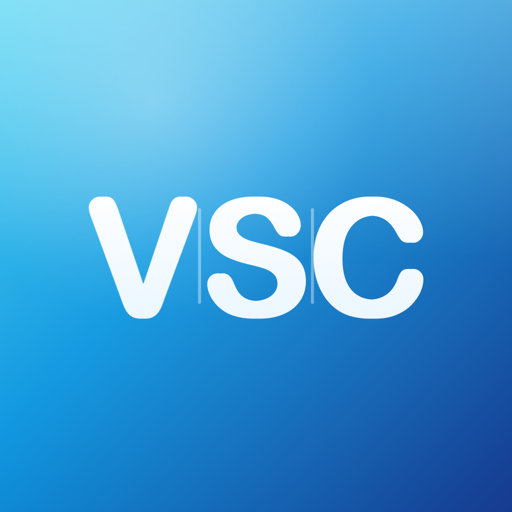
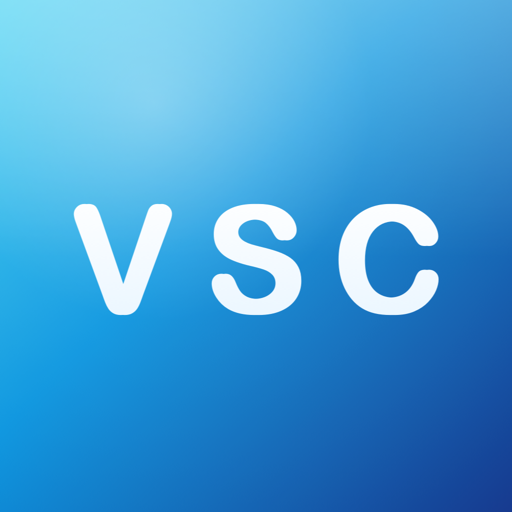
/vsc: п.1-8 — иконка (без палок, шире), краткое расхождение выкупов, плитка заморож. не растянута + текст в i, месячный эквайринг (столбцы, доли по обороту с %), доля рынка текст в i, возвраты наверх, жёлтый блок по разрезам

Changed region(s): [[0.125, 0.375, 0.875, 0.625]]

diff --git a/public/admin.html b/public/admin.html
@@ -2664,15 +2664,14 @@
       function vscMarketChart(rows) {
         const wrap = document.createElement("div"); wrap.className = "vsc-chart";
         const h = document.createElement("div"); h.className = "vsc-chart-h"; h.textContent = "Рынок визовых услуг (модель) и наша доля — по месяцам";
-        h.appendChild(vscInfo("<b>Как считается</b><br>Рынок — модельная оценка (июль 2026): РФ 4,5 млрд ₽/год, МСК 2,1, СПб 0,6; помесячно — с сезонностью визовых подач. Месяц появляется после его календарного окончания. Наша доля = выручка месяца / модельный рынок (по городам — выручка филиалов из amoCRM). Наведите на столбец — полная разбивка."));
+        h.appendChild(vscInfo("<b>Как читать</b><br>Высота столбца — весь рынок РФ (млн ₽); число сверху — наша доля рынка РФ; числа в сегментах МСК/СПб — наша доля этих рынков.<br><br><b>Как считается</b><br>Рынок — модельная оценка (июль 2026): РФ 4,5 млрд ₽/год, МСК 2,1, СПб 0,6; помесячно — с сезонностью визовых подач. Месяц появляется после его календарного окончания. Наша доля = выручка месяца / модельный рынок (по городам — выручка филиалов из amoCRM)."));
         wrap.appendChild(h);
         if (!rows.length) { const e = document.createElement("div"); e.className = "vsc-empty"; e.textContent = "Нет закрытых месяцев для расчёта."; wrap.appendChild(e); return wrap; }
         const COL_MSK = "#e8843b", COL_SPB = "#2e7d52", COL_REST = "#a9c7e4", COL_SHARE = "#8e44ad";
         const leg = document.createElement("div");
         leg.style.cssText = "display:flex;gap:14px;flex-wrap:wrap;font-size:11px;color:#5a626f;margin:2px 0 8px;";
         const legItem = (color, txt) => '<span style="white-space:nowrap;"><i style="display:inline-block;width:10px;height:10px;border-radius:3px;background:' + color + ';vertical-align:-1px;margin-right:5px;"></i>' + txt + '</span>';
-        leg.innerHTML = legItem(COL_REST, "Остальная РФ") + legItem(COL_MSK, "Рынок МСК") + legItem(COL_SPB, "Рынок СПб")
-          + '<span style="flex-basis:100%;color:#8e44ad;font-weight:600;">Высота столбца — весь рынок РФ (млн ₽); число сверху — наша доля рынка РФ; числа в сегментах МСК/СПб — наша доля этих рынков</span>';
+        leg.innerHTML = legItem(COL_REST, "Остальная РФ") + legItem(COL_MSK, "Рынок МСК") + legItem(COL_SPB, "Рынок СПб");
         wrap.appendChild(leg);
         const money1 = (v) => (Math.round(v * 10) / 10).toLocaleString("ru-RU");
         const fmtS = (v) => (Math.round(v * 100) / 100).toLocaleString("ru-RU") + "%";
@@ -2733,87 +2732,70 @@
       // Компактный график комиссий эквайринга (только админ): 4 линии %-комиссии по дням
       // за 30 дней — ООО торговый/интернет, ИП торговый/интернет. Наведение/палец → тултип
       // со значениями всех линий за день. data = { ooo:{ "ГГГГ-ММ-ДД":{torgT,torgC,inetG,inetC} }, ip:{…} }.
+      // МЕСЯЧНЫЕ столбцы комиссий эквайринга (как «доля рынка»): высота = ОБЩИЙ усреднённый
+      // % комиссии за месяц; 4 сегмента по весу ОБОРОТА; число в сегменте — конкретный %
+      // ЭТОГО эквайринга; число сверху — общий %. data.ooo/.ip = { months:{ "YYYY-MM":{...} } }.
       function vscAcqChart(data) {
         const wrap = document.createElement("div"); wrap.className = "vsc-chart";
-        const SERIES = [
+        const TYPES = [
           { key: "oooTorg", name: "ООО торговый", color: "#3589BD", src: "ooo", kind: "torg" },
           { key: "oooInet", name: "ООО интернет", color: "#8e44ad", src: "ooo", kind: "inet" },
           { key: "ipTorg", name: "ИП торговый", color: "#e8843b", src: "ip", kind: "torg" },
           { key: "ipInet", name: "ИП интернет", color: "#2e7d52", src: "ip", kind: "inet" }
         ];
-        const pctOf = (rec, kind) => { if (!rec) return null; if (kind === "torg") return rec.torgT > 0 ? rec.torgC / rec.torgT * 100 : null; return rec.inetG > 0 ? rec.inetC / rec.inetG * 100 : null; };
-        // последние 30 календарных дней (по бизнес-дате «от ДД.ММ»)
-        const days = [];
-        const today = new Date(); today.setHours(0, 0, 0, 0);
-        for (let i = 29; i >= 0; i--) { const d = new Date(today.getTime() - i * 86400000); const k = d.getFullYear() + "-" + ("0" + (d.getMonth() + 1)).slice(-2) + "-" + ("0" + d.getDate()).slice(-2); days.push({ k: k, x: ("0" + d.getDate()).slice(-2) + "." + ("0" + (d.getMonth() + 1)).slice(-2) }); }
-        const avail = SERIES.filter((s) => data && data[s.src]); // ИП без токена — линий нет
-        // значения по дням
-        const vals = {}; avail.forEach((s) => { vals[s.key] = days.map((d) => pctOf(data[s.src][d.k], s.kind)); });
-        const all = []; avail.forEach((s) => vals[s.key].forEach((v) => { if (v != null) all.push(v); }));
-        // 30-дневный агрегат (Σкомис/Σоборот) — в легенду
-        const agg = {}; avail.forEach((s) => { let c = 0, b = 0; days.forEach((d) => { const r = data[s.src][d.k]; if (r) { if (s.kind === "torg") { c += r.torgC || 0; b += r.torgT || 0; } else { c += r.inetC || 0; b += r.inetG || 0; } } }); agg[s.key] = b > 0 ? c / b * 100 : null; });
-        // легенда с агрегатом
-        const leg = document.createElement("div");
-        leg.style.cssText = "display:flex;gap:14px;flex-wrap:wrap;font-size:11px;color:#5a626f;margin:0 0 8px;";
-        leg.innerHTML = avail.map((s) => '<span style="white-space:nowrap;"><i style="display:inline-block;width:10px;height:10px;border-radius:3px;background:' + s.color + ';vertical-align:-1px;margin-right:5px;"></i>' + s.name + (agg[s.key] != null ? ' · <b>' + (Math.round(agg[s.key] * 100) / 100).toLocaleString("ru-RU") + '%</b> за 30 дн.' : '') + '</span>').join("");
-        wrap.appendChild(leg);
-        if (!all.length) { const e = document.createElement("div"); e.className = "vsc-empty"; e.textContent = "Нет данных по эквайрингу за 30 дней."; wrap.appendChild(e); return wrap; }
-        const VW = 1000, VH = 150, PT = 10, PB = 134, PL = 8, PR = 8;
-        let vMax = Math.max.apply(null, all) * 1.1, vMin = Math.min.apply(null, all) * 0.9;
-        if (vMax === vMin) { vMax += 1; vMin = Math.max(0, vMin - 1); }
-        const X = (i) => PL + i * (VW - PL - PR) / (days.length - 1);
-        const Y = (v) => PT + (1 - (v - vMin) / (vMax - vMin)) * (PB - PT);
-        const box = document.createElement("div"); box.style.cssText = "position:relative;height:" + VH + "px;touch-action:pan-y;";
-        const gl = (y) => '<line x1="0" x2="' + VW + '" y1="' + y + '" y2="' + y + '" stroke="#e9edf3" stroke-width="1" vector-effect="non-scaling-stroke"/>';
-        let svg = gl(PT) + gl((PT + PB) / 2) + gl(PB);
-        avail.forEach((s) => {
-          let d = "", pen = false;
-          vals[s.key].forEach((v, i) => { if (v == null) { pen = false; return; } d += (pen ? " L" : " M") + X(i).toFixed(1) + " " + Y(v).toFixed(1); pen = true; });
-          if (d) svg += '<path d="' + d.trim() + '" fill="none" stroke="' + s.color + '" stroke-width="2" stroke-linejoin="round" stroke-linecap="round" vector-effect="non-scaling-stroke"/>';
-        });
-        const yl = (top, txt) => '<div style="position:absolute;left:6px;top:' + top + 'px;font-size:9.5px;color:#9aa0ab;background:rgba(255,255,255,.75);padding:0 3px;border-radius:4px;">' + txt + '</div>';
+        const avail = TYPES.filter((t) => data && data[t.src] && data[t.src].months);
+        const baseOf = (t, ym) => { const r = data[t.src].months[ym]; if (!r) return 0; return t.kind === "torg" ? (r.torgT || 0) : (r.inetG || 0); };
+        const commOf = (t, ym) => { const r = data[t.src].months[ym]; if (!r) return 0; return t.kind === "torg" ? (r.torgC || 0) : (r.inetC || 0); };
+        const set = {}; avail.forEach((t) => Object.keys(data[t.src].months).forEach((ym) => { if (ym >= "2026-01") set[ym] = 1; }));
+        const yms = Object.keys(set).sort();
+        const MONTHS_RU = ["Янв", "Фев", "Мар", "Апр", "Май", "Июн", "Июл", "Авг", "Сен", "Окт", "Ноя", "Дек"];
         const fmtP = (v) => (Math.round(v * 100) / 100).toLocaleString("ru-RU") + "%";
-        box.innerHTML = '<svg width="100%" height="' + VH + '" viewBox="0 0 ' + VW + ' ' + VH + '" preserveAspectRatio="none" style="display:block;">' + svg + '</svg>'
-          + yl(2, fmtP(vMax)) + yl((PT + PB) / 2 - 7, fmtP((vMax + vMin) / 2)) + yl(PB - 6, fmtP(vMin))
-          + '<div class="vsc-line-marker" style="position:absolute;width:8px;height:8px;border-radius:50%;background:#fff;border:2px solid #3589BD;display:none;transform:translate(-50%,-50%);pointer-events:none;"></div>'
-          + '<div class="vsc-line-tip" style="position:absolute;display:none;background:#1d2433;color:#fff;font-size:11px;line-height:1.5;padding:7px 10px;border-radius:8px;white-space:nowrap;pointer-events:none;z-index:5;box-shadow:0 4px 14px rgba(20,30,50,.25);"></div>';
-        wrap.appendChild(box);
-        const xAxis = document.createElement("div");
-        xAxis.style.cssText = "display:flex;justify-content:space-between;font-size:9.5px;color:#9aa0ab;margin-top:3px;";
-        const nLbl = 6, idxs = []; for (let j = 0; j < nLbl; j++) idxs.push(Math.round(j * (days.length - 1) / (nLbl - 1)));
-        xAxis.innerHTML = Array.from(new Set(idxs)).map((i) => '<span>' + days[i].x + '</span>').join("");
-        wrap.appendChild(xAxis);
-        const marker = box.querySelector(".vsc-line-marker"), tip = box.querySelector(".vsc-line-tip");
-        const showAt = (clientX) => {
-          const r = box.getBoundingClientRect(); if (!r.width) return;
-          const relVx = (clientX - r.left) / r.width * VW;
-          let best = 0, bd = Infinity;
-          for (let i = 0; i < days.length; i++) { const dd = Math.abs(X(i) - relVx); if (dd < bd) { bd = dd; best = i; } }
-          const px = X(best) / VW * r.width;
-          marker.style.display = "block"; marker.style.left = px + "px"; marker.style.top = PT + "px";
-          let html = '<span style="color:#aab3c5;">' + days[best].x + '</span>';
-          avail.forEach((s) => { const v = vals[s.key][best]; html += '<br><i style="display:inline-block;width:8px;height:8px;border-radius:2px;background:' + s.color + ';margin-right:5px;"></i>' + s.name + ': <b>' + (v != null ? fmtP(v) : "—") + '</b>'; });
-          tip.innerHTML = html; tip.style.display = "block";
-          const tw = tip.offsetWidth;
-          tip.style.left = Math.max(2, Math.min(r.width - tw - 2, px - tw / 2)) + "px";
-          tip.style.top = "2px";
-        };
-        const hide = () => { marker.style.display = "none"; tip.style.display = "none"; };
-        box.addEventListener("mousemove", (e) => showAt(e.clientX));
-        box.addEventListener("mouseleave", hide);
-        box.addEventListener("touchstart", (e) => { if (e.touches && e.touches[0]) showAt(e.touches[0].clientX); }, { passive: true });
-        box.addEventListener("touchmove", (e) => { if (e.touches && e.touches[0]) showAt(e.touches[0].clientX); }, { passive: true });
-        box.addEventListener("touchend", hide);
+        const rows = yms.map((ym) => {
+          let base = 0, comm = 0; const seg = {};
+          avail.forEach((t) => { const b = baseOf(t, ym), c = commOf(t, ym); base += b; comm += c; seg[t.key] = { base: b, pct: b > 0 ? c / b * 100 : null }; });
+          return { ym: ym, x: MONTHS_RU[+ym.slice(5, 7) - 1], overall: base > 0 ? comm / base * 100 : null, base: base, seg: seg };
+        });
+        const leg = document.createElement("div");
+        leg.style.cssText = "display:flex;gap:14px;flex-wrap:wrap;font-size:11px;color:#5a626f;margin:0 0 10px;";
+        leg.innerHTML = avail.map((t) => '<span style="white-space:nowrap;"><i style="display:inline-block;width:10px;height:10px;border-radius:3px;background:' + t.color + ';vertical-align:-1px;margin-right:5px;"></i>' + t.name + '</span>').join("");
+        wrap.appendChild(leg);
+        const present = rows.filter((r) => r.overall != null);
+        if (!present.length) { const e = document.createElement("div"); e.className = "vsc-empty"; e.textContent = "Нет данных по эквайрингу."; wrap.appendChild(e); return wrap; }
+        const maxO = Math.max.apply(null, present.map((r) => r.overall)) || 1;
+        const bars = document.createElement("div"); bars.className = "vsc-bars"; bars.style.overflow = "visible"; bars.style.height = "auto"; bars.style.paddingTop = "6px";
+        rows.forEach((r) => {
+          const col = document.createElement("div"); col.className = "vsc-bar-col";
+          col.title = r.x + " · общий " + (r.overall != null ? fmtP(r.overall) : "—") + "\n" + avail.map((t) => t.name + ": " + (r.seg[t.key].pct != null ? fmtP(r.seg[t.key].pct) : "—")).join("\n");
+          const vl = document.createElement("div"); vl.className = "vsc-bar-v"; vl.style.fontWeight = "700"; vl.textContent = r.overall != null ? fmtP(r.overall) : "";
+          const bar = document.createElement("div"); bar.className = "vsc-bar vsc-bar-stack";
+          const barPx = r.overall != null ? Math.max(2, Math.round(r.overall / maxO * 120)) : 2;
+          bar.style.height = barPx + "px";
+          if (r.overall != null && r.base > 0) {
+            avail.forEach((t) => { // column-reverse → первый добавленный снизу
+              const s = r.seg[t.key]; if (!s || s.base <= 0) return;
+              const frac = s.base / r.base;
+              const d = document.createElement("div");
+              d.style.cssText = "width:100%;height:" + (frac * 100) + "%;background:" + t.color + ";display:flex;align-items:center;justify-content:center;overflow:hidden;";
+              d.title = t.name + ": " + (s.pct != null ? fmtP(s.pct) : "—");
+              if (s.pct != null && frac * barPx >= 11) { const sp = document.createElement("span"); sp.textContent = fmtP(s.pct); sp.style.cssText = "font-size:8px;font-weight:700;color:#fff;line-height:1;white-space:nowrap;text-shadow:0 1px 1px rgba(0,0,0,.25);"; d.appendChild(sp); }
+              bar.appendChild(d);
+            });
+          }
+          const xl = document.createElement("div"); xl.className = "vsc-bar-x"; xl.textContent = r.x;
+          col.appendChild(vl); col.appendChild(bar); col.appendChild(xl);
+          bars.appendChild(col);
+        });
+        wrap.appendChild(bars);
         return wrap;
       }
       // Блок «Комиссии эквайринга» (только админ): raw fetch (не apiFetch — 401 не выкидывает).
       let _acqPoll = null;
       function vscAcquiringBlock() {
         const wrap = document.createElement("div"); wrap.className = "vsc-chart";
-        wrap.innerHTML = '<div class="vsc-chart-h">Комиссии эквайринга — % по дням (30 дней)</div><div class="loading-state">Загружаем из банка…</div>';
+        wrap.innerHTML = '<div class="vsc-chart-h">Комиссии эквайринга — % по месяцам</div><div class="loading-state">Загружаем из банка…</div>';
         const render = (j) => {
-          wrap.innerHTML = '<div class="vsc-chart-h">Комиссии эквайринга — % по дням (30 дней)</div>';
-          wrap.querySelector(".vsc-chart-h").appendChild(vscInfo("<b>Как считается</b><br>Торговый: комиссия «по терминалам эквайринга» ÷ оборот. Интернет: комиссия из «реестра операций» ÷ (приход + комиссия). Только проведённые операции; СБП-терминал и удержания не учитываются. Обновляется ежедневно в 00:20 МСК."));
+          wrap.innerHTML = '<div class="vsc-chart-h">Комиссии эквайринга — % по месяцам</div>';
+          wrap.querySelector(".vsc-chart-h").appendChild(vscInfo("<b>Как читать</b><br>Высота столбца — ОБЩИЙ усреднённый % комиссии за месяц (он же — число сверху). Сегменты — 4 эквайринга по весу оборота; число в сегменте — конкретный % ЭТОГО эквайринга.<br><br><b>Как считается</b><br>Торговый: комиссия «по терминалам эквайринга» ÷ оборот. Интернет: комиссия из «реестра операций» ÷ (приход + комиссия). Только проведённые операции; СБП-терминал и удержания не учитываются. Помесячно с января 2026. Обновляется ежедневно в 00:20 МСК."));
           const data = j && j.data;
           if (!data || (!data.ooo && !data.ip)) {
             const e = document.createElement("div"); e.className = "vsc-empty";
@@ -2852,7 +2834,7 @@
           wrap.appendChild(btn);
         };
         fetch("/admin/api/vsc/acquiring", { headers: { Authorization: "Bearer " + getToken() } }).then((r) => r.json()).then(render).catch(function () {
-          wrap.innerHTML = '<div class="vsc-chart-h">Комиссии эквайринга — % по дням (30 дней)</div><div class="vsc-empty">Не удалось загрузить.</div>';
+          wrap.innerHTML = '<div class="vsc-chart-h">Комиссии эквайринга — % по месяцам</div><div class="vsc-empty">Не удалось загрузить.</div>';
         });
         return wrap;
       }
@@ -3116,17 +3098,20 @@
           else { for (let i = series.length - 1; i >= 0; i--) { const s = series[i]; if (!s || !s.k || s.k.cpl == null || isNaN(s.k.cpl)) continue; if (inProgress(s)) continue; cand = s; break; } }
           if (cand && cand.k && cand.k.cpl != null && cand.k.cpl > CPL_LIMIT) cplAlert = { x: cand.x, v: cand.k.cpl };
         })();
-        const hasWarn = attn.length || cplAlert;
+        // Месячные отклонения (attn) — ТОЛЬКО в разрезе «Месяц» (по просьбе Андрея: показатель
+        // в своём разделе). CPL-алерт уже адаптивен (день/неделя/месяц) — остаётся во всех.
+        const showAttn = (vscGran === "month") && attn.length;
+        const hasWarn = showAttn || cplAlert;
         const ab = document.createElement("div"); ab.className = "vsc-attn " + (hasWarn ? "warn" : "ok");
         if (hasWarn) {
           let h = "";
-          if (attn.length) {
+          if (showAttn) {
             h += '<div class="vsc-attn-h">⚠️ На что обратить внимание (ухудшилось за последний месяц, к сопоставимому периоду прошлого):</div><ul>';
             attn.forEach((a) => { h += "<li>" + escapeHtml(a.msg) + "</li>"; });
             h += "</ul>";
           }
           if (cplAlert) {
-            h += '<div class="vsc-attn-h"' + (attn.length ? ' style="margin-top:9px;"' : '') + '>⚠️ CPL выше лимита 1100 ₽ (' + granWord + ', ' + escapeHtml(cplAlert.x) + '): <b>' + vscFmt(cplAlert.v, "money") + '</b></div>';
+            h += '<div class="vsc-attn-h"' + (showAttn ? ' style="margin-top:9px;"' : '') + '>⚠️ CPL выше лимита 1100 ₽ (' + granWord + ', ' + escapeHtml(cplAlert.x) + '): <b>' + vscFmt(cplAlert.v, "money") + '</b></div>';
           }
           ab.innerHTML = h;
         } else {
@@ -3319,6 +3304,12 @@
       // месяцам, без плиток-цифр. Не зависит от переключателя гранулярности дашборда.
       function renderVscMonthly() {
         const monthSeries = (vscData.months || []).map((mm) => ({ x: (mm.name || "").replace(" 2026", "").trim(), k: mm.total || {} }));
+        const short = (n) => String(n || "").replace(/\s*20\d\d/, "").trim();
+        // ── Возвраты — по месяцам (по просьбе Андрея: САМЫЙ ВЕРХ раздела) ──
+        const retSeries = (vscData.months || []).map((mm) => ({ x: short(mm.name), k: mm.total ? { returnsPct: mm.total.returnsPct, retUslugi: mm.total.retUslugi, ourPct: mm.total.returnsOurPct, notOurPct: mm.total.returnsNotOurPct, unknownPct: mm.total.returnsUnknownPct } : {} }));
+        const h5 = document.createElement("div"); h5.className = "ref-sec-h"; h5.textContent = "Возвраты — по месяцам";
+        vscContent.appendChild(h5);
+        vscContent.appendChild(vscReturnsStackedChart(retSeries));
         // ── Выручка по городам (СПб/МСК) — по месяцам, из amoCRM (ночной расчёт 05:00) ──
         const hCity = document.createElement("div"); hCity.className = "ref-sec-h"; hCity.textContent = "Выручка по городам — по месяцам (2026)";
         vscContent.appendChild(hCity);
@@ -3339,7 +3330,6 @@
         const h2 = document.createElement("div"); h2.className = "ref-sec-h"; h2.style.marginTop = "22px"; h2.textContent = "Отзывы клиентов — по месяцам (2026)";
         vscContent.appendChild(h2);
         const rev = vscData.reviews || [];
-        const short = (n) => String(n || "").replace(/\s*20\d\d/, "").trim();
         const msk = rev.map((r) => ({ x: short(r.name), pos: r.mskPos, neg: r.mskNeg }));
         const spb = rev.map((r) => ({ x: short(r.name), pos: r.spbPos, neg: r.spbNeg }));
         vscContent.appendChild(vscReviewsChart("Отзывы — Москва", msk));
@@ -3356,11 +3346,6 @@
         vscContent.appendChild(h4);
         vscContent.appendChild(vscBarChart({ key: "cplExtra", label: "CPL с учётом доп. расходов", fmt: "money", good: -1 }, ctrlSeries));
         vscContent.appendChild(vscBarChart({ key: "drrExtra", label: "ДРР с учётом доп. расходов", fmt: "pct", good: -1 }, ctrlSeries));
-        // Item 11 — % возвратов по месяцам (Услуги / выручка) + разбивка по вине (наша/не наша/не определено).
-        const retSeries = (vscData.months || []).map((mm) => ({ x: short(mm.name), k: mm.total ? { returnsPct: mm.total.returnsPct, retUslugi: mm.total.retUslugi, ourPct: mm.total.returnsOurPct, notOurPct: mm.total.returnsNotOurPct, unknownPct: mm.total.returnsUnknownPct } : {} }));
-        const h5 = document.createElement("div"); h5.className = "ref-sec-h"; h5.style.marginTop = "22px"; h5.textContent = "Возвраты — по месяцам";
-        vscContent.appendChild(h5);
-        vscContent.appendChild(vscReturnsStackedChart(retSeries));
         // Item 13 — налоги (вынесенный НДС, налог 5%, расхождение с фактом НДС).
         const taxSeries = (vscData.months || []).map((mm) => ({ x: short(mm.name), k: mm.taxes || {} }));
         const h6 = document.createElement("div"); h6.className = "ref-sec-h"; h6.style.marginTop = "22px"; h6.textContent = "Налоги — по месяцам";
@@ -3520,12 +3505,10 @@
             let holdNote = "";
             const sheetOver = -delta; // насколько таблица больше банка
             if (!ok && sheetOver > 0) {
-              const match = hold > 0 && Math.abs(sheetOver - hold) < 100;
-              holdNote = '<div style="font-size:11px;color:#8a90a0;margin-top:3px;line-height:1.5;">На холде (pending) за месяц: <b>' + money2(hold) + '</b> '
-                + (match
-                  ? '<span style="color:#2c7a43;font-weight:700;">✓ равно расхождению</span><br>внесены в таблицу, банком ещё не проведены — сойдётся после проведения'
-                  : '<span style="color:#b0263a;font-weight:700;">❗ не равно расхождению</span><br>холды не объясняют Δ полностью — стоит проверить внесённое в таблицу')
-                + '</div>';
+              // Кратко: на холде столько-то, не покрыто холдами (остаток расхождения) — столько-то.
+              // Красным, если остаток критичный (> 2000 ₽); иначе зелёной галочкой.
+              const uncovered = sheetOver - hold, crit = Math.abs(uncovered) > 2000;
+              holdNote = '<div style="font-size:11px;color:#8a90a0;margin-top:3px;">На холде: <b>' + money2(hold) + '</b> · остаётся <b style="color:' + (crit ? '#b0263a' : '#2c7a43') + ';">' + money2(uncovered) + '</b> <span style="color:' + (crit ? '#b0263a' : '#2c7a43') + ';font-weight:700;">' + (crit ? '❗' : '✓') + '</span></div>';
             }
             const frozen = (d.frozenMonths || []).indexOf(ym) >= 0; // месяц зафиксирован снимком (N+2)
             const frozenNote = frozen ? '<div style="font-size:10.5px;color:#9aa0ab;margin-top:3px;">🔒 зафиксировано — снимок банка и таблицы, дальше не меняется</div>' : "";
@@ -3536,11 +3519,10 @@
           const histBtn = (id, n) => (n > 0 ? '<button type="button" id="' + id + '" class="vsc-dayrev-refresh" style="margin-top:8px;background:#eef2f7;color:#3a4356;border-color:#d7dce4;">Показать историю (' + n + ')</button>' : "");
           box.innerHTML =
             '<div class="vsc-chart-h" style="margin-bottom:8px;">1 · Движение денег в выкупах (Turkish + OneTwoTrip, р/с)</div>'
-            + '<div style="display:flex;gap:14px;flex-wrap:wrap;align-items:stretch;margin-bottom:10px;">'
-            + '<div class="vsc-tile" style="flex:1;min-width:230px;background:#fdf6ec;border-color:#f0dfc0;">'
-            +   '<div class="vsc-tile-l">Заморожено в выкупах сейчас</div>'
+            + '<div style="display:flex;gap:14px;flex-wrap:wrap;margin-bottom:10px;">'
+            + '<div class="vsc-tile" style="flex:0 1 auto;max-width:360px;background:#fdf6ec;border-color:#f0dfc0;">'
+            +   '<div class="vsc-tile-l" id="frozenL">Заморожено в выкупах сейчас</div>'
             +   '<div class="vsc-tile-v">' + money(d.frozen) + '</div>'
-            +   '<div class="vsc-tile-s">расход ' + money(d.frozenDeb) + ' − приход ' + money(d.frozenCre) + ' · по май 2026 — сверено, с июня — банк · счёт ' + escapeHtml(d.account || "") + '</div>'
             + '</div></div>'
             + '<div style="overflow-x:auto;"><table style="width:100%;border-collapse:collapse;font-size:12.5px;">'
             + '<thead><tr style="color:#6b7280;font-size:11px;text-transform:uppercase;"><th style="text-align:left;padding:7px 8px;">Период</th><th style="text-align:left;padding:7px 8px;">Расход</th><th style="text-align:left;padding:7px 8px;">Приход</th></tr></thead>'
@@ -3553,6 +3535,7 @@
             + histBtn("buyoutsHistBtn2", cmpYms.filter((ym) => ym < prevYm).length)
             + '<div style="font-size:11.5px;color:#8a90a0;margin-top:12px;display:flex;align-items:center;gap:10px;flex-wrap:wrap;">обновлено: ' + escapeHtml(upd) + ' МСК <button type="button" id="buyoutsRun" class="vsc-dayrev-refresh" style="margin-top:0;">↻ Обновить</button></div>';
           const cmpH = box.querySelector("#buyoutsCmpH"); if (cmpH) cmpH.appendChild(vscInfo("<b>Как считается</b><br>Банк: только проведённые операции (без холдов), месяц — по дате авторизации. Таблица: вкладки «Авиа»+«Отель», только «Расчетный счет», по сумме снятия. Сходится, если Δ ≤ 2000 ₽ (зелёным); выше — красным. Обновляется ежедневно в 00:10 МСК. Старые месяцы зафиксированы снимком (🔒)."));
+          const frozenL = box.querySelector("#frozenL"); if (frozenL) frozenL.appendChild(vscInfo("<b>Заморожено в выкупах</b><br>Расход " + money(d.frozenDeb) + " − приход " + money(d.frozenCre) + ". По май 2026 — сверено вручную, с июня — по банку. Счёт " + escapeHtml(d.account || "") + "."));
           const b = box.querySelector("#buyoutsRun"); if (b) b.addEventListener("click", runNow);
           [["buyoutsHistBtn1", "buyoutsHist1"], ["buyoutsHistBtn2", "buyoutsHist2"]].forEach(([btnId, cls]) => {
             const btn = box.querySelector("#" + btnId);

diff --git a/server.js b/server.js
@@ -5115,25 +5115,25 @@ async function acqFetchEntity(token) {
   const acc = await tbAccRuble(token);
   if (!acc) throw new Error("рублёвый счёт не найден");
   const till = new Date(Date.now() + 2 * 86400000).toISOString().slice(0, 10) + "T00:00:00Z";
-  const from = new Date(Date.now() - 40 * 86400000).toISOString().slice(0, 10) + "T00:00:00Z";
+  const from = "2026-01-01T00:00:00Z"; // ПОМЕСЯЧНО с начала 2026 (по просьбе Андрея)
   let cursor = "", ops = [];
-  for (let p = 0; p < 200; p++) {
+  for (let p = 0; p < 400; p++) {
     const j = await tbGetT(token, "https://business.tbank.ru/openapi/api/v1/statement?accountNumber=" + acc + "&from=" + from + "&till=" + till + (cursor ? "&cursor=" + encodeURIComponent(cursor) : ""));
     ops = ops.concat(j.operations || []);
     if (!j.nextCursor || !(j.operations || []).length) break;
     cursor = j.nextCursor; await new Promise((s) => setTimeout(s, 250));
   }
-  const days = {};
-  const D = (d) => days[d] || (days[d] = { torgT: 0, torgC: 0, inetG: 0, inetC: 0 });
+  const months = {}; // "YYYY-MM" → {torgT,torgC,inetG,inetC}
+  const M = (ym) => months[ym] || (months[ym] = { torgT: 0, torgC: 0, inetG: 0, inetC: 0 });
   for (const o of ops) {
     if (String(o.operationStatus) !== "Transaction") continue;
     const p = String(o.payPurpose || o.description || ""), amt = +o.accountAmount || 0;
     const cr = String(o.typeOfOperation).toLowerCase() === "credit";
-    if (cr && /зачисление средств по терминалам эквайринга/i.test(p)) { const d = acqDateFrom(p, "эквайринга"); if (d) D(d).torgT += amt; }
-    else if (!cr && /комисси\S* за операции по терминалам эквайринга/i.test(p)) { const d = acqDateFrom(p, "эквайринга"); if (d) D(d).torgC += amt; }
-    else if (cr && /перевод средств по договору .* по реестру операций/i.test(p)) { const c = acqComm(p), d = acqDateFrom(p, "операций"); if (c != null && d) { D(d).inetC += c; D(d).inetG += amt + c; } }
+    if (cr && /зачисление средств по терминалам эквайринга/i.test(p)) { const d = acqDateFrom(p, "эквайринга"); if (d) M(d.slice(0, 7)).torgT += amt; }
+    else if (!cr && /комисси\S* за операции по терминалам эквайринга/i.test(p)) { const d = acqDateFrom(p, "эквайринга"); if (d) M(d.slice(0, 7)).torgC += amt; }
+    else if (cr && /перевод средств по договору .* по реестру операций/i.test(p)) { const c = acqComm(p), d = acqDateFrom(p, "операций"); if (c != null && d) { const m = M(d.slice(0, 7)); m.inetC += c; m.inetG += amt + c; } }
   }
-  return days;
+  return { months };
 }
 async function runAcquiring(trigger) {
   if (_acqRunning) return { skipped: true };